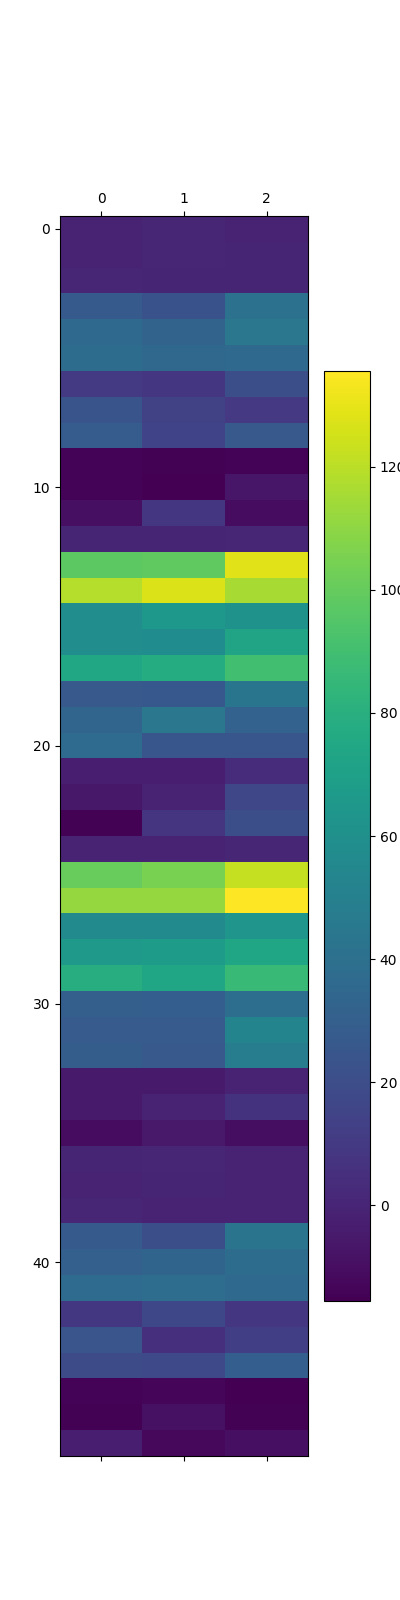
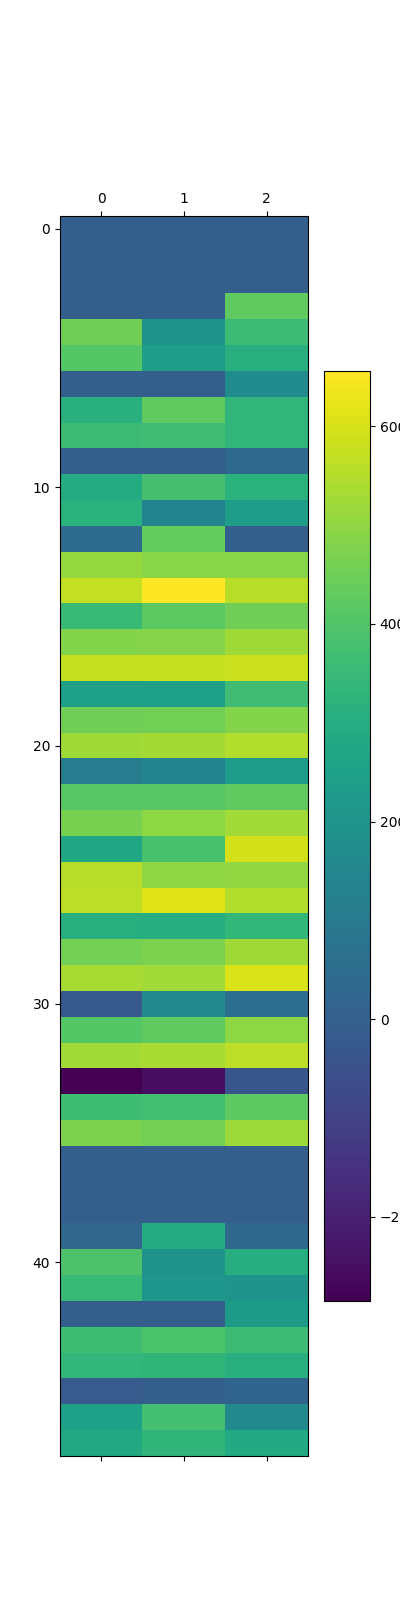
fig thrust

diff --git a/src/qagent.py b/src/qagent.py
@@ -11,9 +11,9 @@ from env import MPR_env
 from config import GRAPH_PATH
 from datetime import datetime
 timestamp = datetime.now().strftime("%d-%m")
-
+import itertools
 class Qagent:
-    def __init__(self, env, episodes= 5000, max_steps =100,alpha = .2, epsilon = .3, gamma = 0.95, do_test = True):
+    def __init__(self, env, episodes= 5000, max_steps =10000,alpha = .2, epsilon = .3, gamma = 0.95, do_test = True):
         self.env= env
         self.episodes = episodes
         self.max_steps = max_steps
@@ -38,20 +38,17 @@ class Qagent:
     def train(self):
         q_values = []
         for i in tqdm(range(self.episodes)):
-            cum_reward = 0
+            # cum_reward = 0
             state= self.env.reset()
-            nb_steps = 0
             for j in range(20000):
                 
                 action = self.epsilon_greedy(state)
                 next_state,reward,terminated = self.env.step(action)
                 self.update_q_table(state,action,next_state,reward)
                 state = next_state
-                cum_reward += reward
-
+                # cum_reward += reward
                 if terminated: 
                     break
-                nb_steps += 1
 
             self.epsilon = max(0.05, self.epsilon * 0.98)
             if self.do_test and i%10 ==0:
@@ -66,11 +63,11 @@ class Qagent:
 
 
     def test(self):
-
-        state = self.env.reset()
+        
+        state = self.env.reset(board = Board(custom=True, nb_cp=4, nb_round=1))
         pas = 0
         cum_reward = 0
-        for j in range(self.max_steps):
+        for j in range(20000):
             action = np.argmax(self.qtable[state])
 
             next_state,reward,terminated = self.env.step(action)
@@ -124,7 +121,6 @@ class Qagent:
 
 
     def get_policy(self, nb_etat):
-        print(self.qtable)
         res = {}
         for i in range(nb_etat):
             action = np.argmax(self.qtable[i])
@@ -134,78 +130,84 @@ class Qagent:
             f.write(str(res))
         return res
 
+def test_hyperparams():
+    alphas = [0.1, 0.2]
+    gammas = [0.95]
+    epsilons = [0.3, 0.5]
+    episodes_list = [3000]
+
+    results = {}  
+    
+    for alpha, gamma, epsilon, episodes in itertools.product(alphas, gammas, epsilons, episodes_list):
+        env = MPR_env()
+        agent = Qagent(env, alpha=alpha, gamma=gamma, epsilon=epsilon, episodes=episodes, do_test=True)
+        agent.train()
+
+        label = f"α={alpha}, γ={gamma}, ε={epsilon}, ep={episodes}"
+        results[label] = {
+            "steps": [(x[0], x[1]) for x in agent.steps],
+            "rewards": [(x[0], x[1]) for x in agent.rewards]
+        }
+
+    plt.figure(figsize=(15, 7))
+    for label, data in results.items():
+        xs = [x[0] for x in data["steps"]]
+        ys = [x[1] for x in data["steps"]]
+        plt.plot(xs, ys, label=label)
+    plt.xlabel("Episodes")
+    plt.ylabel("Steps")
+    plt.title("Steps par épisode pour différentes valeurs d'hyperparamètres")
+    plt.legend()
+    plt.grid()
+    plt.tight_layout()
+    plt.savefig(f"{GRAPH_PATH}/compare_steps.png")
+
+    plt.figure(figsize=(15, 7))
+    for label, data in results.items():
+        xs = [x[0] for x in data["rewards"]]
+        ys = [x[1] for x in data["rewards"]]
+        plt.plot(xs, ys, label=label)
+    plt.xlabel("Episodes")
+    plt.ylabel("Reward")
+    plt.title("Reward par épisode pour différentes valeurs d'hyperparamètres")
+    plt.legend()
+    plt.grid()
+    plt.tight_layout()
+    plt.savefig(f"{GRAPH_PATH}/compare_rewards.png")
+
 
 
 if __name__ == "__main__":
-    # agent = Qagent(MPR_env_light(custom=False, nb_round=1,nb_cp=4), do_test=True, episodes= 20000, max_steps=20000)
-    agent = Qagent(MPR_env(custom=False, nb_round= 3,nb_cp=4), do_test=True, episodes= 5000)
-    # agent = Qagent(MPR_env(), do_test=True, episodes= 1000)
-    # np.save("qtable", agent.qtable)
+    # test_hyperparams()
+    agent = Qagent(MPR_env(), epsilon = .4, alpha=.1, gamma= .95 ,do_test=True, episodes= 3000)
     q_values = agent.train()
-
     agent.get_policy(agent.env.nb_etat)
-
-
-    agent.env.show_traj()
-    
-    # plt.figure(figsize=(15,7))
-    # plt.plot(agent.env.vitesse, label='vitesse')
-    # plt.legend()
-    # plt.savefig("vitesse")
-    # plt.plot(agent.env.dista, label ="distance")
-    # plt.plot(agent.env.rewa, label="reward")
 
     plt.matshow(agent.qtable, cmap = "viridis", aspect = "auto")
     plt.colorbar()
     plt.savefig(f"{GRAPH_PATH}/qtable_{timestamp}")
 
-    batch_size = 10
-    steps_x_b = [agent.steps[i][0] for i in range(0, len(agent.steps), batch_size)]
-    steps_y_b = [ sum(agent.steps[i][1] for i in range(batch, min(batch + batch_size, len(agent.steps)))) /  (min(batch + batch_size, len(agent.steps)) - batch)for batch in range(0, len(agent.steps), batch_size)]
+    plt.figure(figsize=(15, 7))
     xs = [agent.steps[i][0] for i in range(len(agent.steps))]
     ys = [agent.steps[i][1] for i in range(len(agent.steps))]
-    
-    plt.figure(figsize=(15,7))
-    plt.plot(xs,ys, label ="ep par ep")
-    plt.plot(steps_x_b, steps_y_b, label = "mean par batch")
-    plt.legend()
     plt.xlabel("Episodes")
     plt.ylabel("Steps")
-    plt.title(f"Nombre de steps par episode (moyenne par batch de {batch_size})")
+    plt.title("Steps par épisode en test")
+    plt.plot(xs, ys)
+    plt.grid()
+    plt.savefig(f"{GRAPH_PATH}/compare_steps.png")
 
-    plt.savefig(f"{GRAPH_PATH}/step_per_ep_{timestamp}")
-
-    reward_x_b = [agent.rewards[i][0] for i in range(0, len(agent.rewards), batch_size)]
-    reward_y_b = [sum(agent.rewards[i][1] for i in range(batch, min(batch + batch_size, len(agent.rewards)))) / (min(batch + batch_size, len(agent.rewards)) - batch) for batch in range(0, len(agent.rewards), batch_size)]
+    plt.figure(figsize=(15, 7))
     xr = [agent.rewards[i][0] for i in range(len(agent.rewards))]
     yr = [agent.rewards[i][1] for i in range(len(agent.rewards))]
-    plt.figure()
-    plt.plot(xr,yr, label = "ep par ep")
-    plt.plot(reward_x_b, reward_y_b, label= "mean par batch")
-    plt.legend()
     plt.xlabel("Episodes")
     plt.ylabel("Reward")
-    plt.title(f"Reward par episode (moyenne par batch de {batch_size})")
-    plt.savefig(f"{GRAPH_PATH}/reward_per_ep_{timestamp}")
-
-    # plt.figure()
-    # normalized_trace_qtable = agent.trace_qtable / np.max(agent.trace_qtable)
-    # plt.matshow(normalized_trace_qtable, cmap = "viridis", aspect = "auto")
-    # plt.colorbar()
-    # plt.title("nombre de mise à jour de couple état action")
-    # plt.savefig(f"{GRAPH_PATH}/trace_qtable_{timestamp}")
+    plt.title("Reward cumulée par épisode en test")
+    plt.plot(xr, yr)
+    plt.grid()
+    plt.savefig(f"{GRAPH_PATH}/compare_rewards.png")
 
 
 
-    # plt.figure()
-    # plt.bar(np.arange(len(agent.trace_etat)),agent.trace_etat)
-    # plt.title("nombre de mise à jour pur un etat")
-    # plt.savefig(f"{GRAPH_PATH}/trace_state{timestamp}")
 
-    plt.figure()
-    plt.plot(q_values)
-    plt.title("Valeur moyenne de la qtable")
-    plt.xlabel("Episodes")
-    plt.ylabel("Valeur moyenne")
-    plt.savefig(f"{GRAPH_PATH}/qtable_mean_{timestamp}")
-    plt.show()
+

diff --git a/src/coding_game/MPR_qlearning_thrust.py b/src/coding_game/MPR_qlearning_thrust.py
@@ -6,8 +6,7 @@ import sys
 
 
 
-
-policy = {0: np.int64(1), 1: np.int64(1), 2: np.int64(0), 3: np.int64(2), 4: np.int64(2), 5: np.int64(0), 6: np.int64(2), 7: np.int64(0), 8: np.int64(0), 9: np.int64(2), 10: np.int64(2), 11: np.int64(1), 12: np.int64(2), 13: np.int64(2), 14: np.int64(1), 15: np.int64(1), 16: np.int64(2), 17: np.int64(2), 18: np.int64(2), 19: np.int64(1), 20: np.int64(0), 21: np.int64(2), 22: np.int64(2), 23: np.int64(2), 24: np.int64(2), 25: np.int64(2), 26: np.int64(2), 27: np.int64(2), 28: np.int64(2), 29: np.int64(2), 30: np.int64(2), 31: np.int64(2), 32: np.int64(2), 33: np.int64(2), 34: np.int64(2), 35: np.int64(1), 36: np.int64(1), 37: np.int64(1), 38: np.int64(0), 39: np.int64(2), 40: np.int64(2), 41: np.int64(1), 42: np.int64(1), 43: np.int64(0), 44: np.int64(2), 45: np.int64(1), 46: np.int64(1), 47: np.int64(0)}
+policy = {0: np.int64(2), 1: np.int64(1), 2: np.int64(1), 3: np.int64(0), 4: np.int64(2), 5: np.int64(1), 6: np.int64(0), 7: np.int64(1), 8: np.int64(1), 9: np.int64(0), 10: np.int64(2), 11: np.int64(0), 12: np.int64(2), 13: np.int64(2), 14: np.int64(1), 15: np.int64(2), 16: np.int64(2), 17: np.int64(0), 18: np.int64(2), 19: np.int64(2), 20: np.int64(2), 21: np.int64(2), 22: np.int64(2), 23: np.int64(2), 24: np.int64(1), 25: np.int64(1), 26: np.int64(1), 27: np.int64(2), 28: np.int64(2), 29: np.int64(2), 30: np.int64(1), 31: np.int64(2), 32: np.int64(2), 33: np.int64(2), 34: np.int64(2), 35: np.int64(2), 36: np.int64(2), 37: np.int64(0), 38: np.int64(1), 39: np.int64(1), 40: np.int64(1), 41: np.int64(1), 42: np.int64(0), 43: np.int64(2), 44: np.int64(2), 45: np.int64(1), 46: np.int64(1), 47: np.int64(0)}
 
 discretisation= [4,4,3]
 nb_action=15
@@ -27,7 +26,7 @@ def discretized_distance(dist):
 
 def discretized_speed( x, y, past_pos):
     vitesse = np.sqrt((x - past_pos[0])**2 + (y - past_pos[1])**2)
-    bins = [200,500,1000]
+    bins = [200,400]
     return np.digitize(vitesse,bins)
 
 
@@ -37,7 +36,7 @@ def discretized_state(angle, dist, x, y, past_pos):
     return index
 
 def convert_action(action):
-    mapping_thrust = {0:0,1:70,2:100}
+    mapping_thrust = {0:0,1:50,2:100}
     return mapping_thrust[action]
 actions = []
 pos = []

diff --git a/src/env.py b/src/env.py
@@ -32,10 +32,13 @@ class MPR_env():
         thrust = self.convert_action(action)
         x,y,next_cp_x,next_cp_y,dist,angle = self.board.play(next_cp,thrust) 
         self.traj.append([x,y])
-        self.vitesse.append(self.discretized_speed(x,y))
+        vitesse =self.discretized_speed(x,y)
 
-        #si rien de specifique ne s'est produit 
-        reward = -self.reward(dist)
+        self.vitesse.append(vitesse)
+
+        reward = (self.old_dist - dist)*0.05
+        self.old_dist = dist
+        
         if self.board.next_checkpoint != self.next_cp_old:
             reward = 100
             self.next_cp_old = self.board.next_checkpoint
@@ -44,18 +47,17 @@ class MPR_env():
         if self.board.terminated:
             #arret a cause d'un timeout
             if self.board.pod.timeout<0:
-                # reward = -1
+                # reward = -10
                 self.terminated = True
             #arret fin de course
             else:
-                reward= 100
+                reward= 500
                 self.terminated = True
         next_state =self.discretized_state(angle, dist, x,y)
+        self.past_pos = (x,y)
         return next_state,reward, self.terminated
     
-    def reward(self, dist):
-        bins = [600, 1000, 8000, 10000]
-        return np.digitize(dist, bins)
+
 
     def reset(self,seed=None,options=None, board=None):
         self.board = Board(nb_cp=4,nb_round=3,custom =self.custom)
@@ -83,8 +85,9 @@ class MPR_env():
         return np.digitize(dist,bins)
     
     def discretized_speed(self, x,y):
-        vitesse = np.sqrt(abs(x - self.past_pos[0])**2 + abs(y - self.past_pos[1])**2)
-        bins = [200,1000]
+        
+        vitesse = np.sqrt((x - self.past_pos[0])**2 + (y - self.past_pos[1])**2)
+        bins = [200,400]
         return np.digitize(vitesse,bins)
 
     
@@ -95,7 +98,7 @@ class MPR_env():
         return index
 
     def convert_action(self, action):
-        mapping_thrust = {0:0,1:70,2:100}
+        mapping_thrust = {0:0,1:50,2:100}
         return mapping_thrust[action]
 
 

diff --git a/src/env_dir.py b/src/env_dir.py
@@ -248,11 +248,10 @@ class MPR_env_light():
             reward = 0
         self.old_dist = dist
 
-        if vitesse<500:
-            reward-= .5
+
         if self.board.next_checkpoint != self.old_cp:
             self.old_cp = self.board.next_checkpoint
-            reward = 1000
+            reward = 200
             # reward = 10000
             # self.show_traj()
         if self.board.terminated:
@@ -260,7 +259,7 @@ class MPR_env_light():
                 # reward = -1
                 self.terminated = True
             else:
-                reward= 10000
+                reward= 1000
                 print("done")
                 
                 self.terminated = True
@@ -343,7 +342,7 @@ class MPR_env_light():
 
 
     def convert_action(self, action):
-        mapping_thrust = {0: 0, 1: 70, 2: 100}
+        mapping_thrust = {0: 30, 1: 70, 2: 100}
         thrust = mapping_thrust[action // 3]
         mapping_angle = {0: -18,1: 0, 2: 18}
         x_past, y_past = self.past_pos

diff --git a/src/MPRengine.py b/src/MPRengine.py
@@ -158,11 +158,11 @@ class Board():
     
     def checkTerminated(self):
         # pas de tour on ne repasse pas par cp 0
-        # if sum(self.checkpoint_cp) == self.nb_cp-1 or self.pod.timeout<0:
-        #     self.terminated = True
-        #tour complet
-        if self.checkpoint_cp == [self.nb_round]*self.nb_cp or self.pod.timeout<0:
+        if sum(self.checkpoint_cp) == self.nb_cp-1 or self.pod.timeout<0:
             self.terminated = True
+        #tour complet
+        # if self.checkpoint_cp == [self.nb_round]*self.nb_cp or self.pod.timeout<0:
+        #     self.terminated = True
     
     def play(self, p, thrust):
         self.pod.play(p, thrust)
